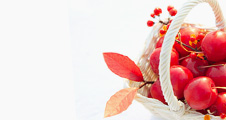
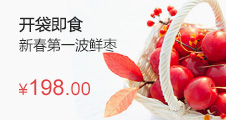
Modify index sideRecommend DOM.

Changed region(s): [[0.0619, 0.3, 0.5265, 0.45], [0.0619, 0.125, 0.3717, 0.275], [0.0619, 0.65, 0.4027, 0.8]]

diff --git a/index.html b/index.html
@@ -2082,29 +2082,17 @@
                     <ul>
                         <li>
                             <a class="show" href="">
-                                <dl class="desc">
-                                    <dt>美白去换补水滋养</dt>
-                                    <dd>激活脸部水分子</dd>
-                                </dl>
-                                <img class="thumb" src="assets/img/1.png" alt="" width="100" height="100"/>
+                                <img src="assets/images/sideRecommend01.jpg" alt="" width="214" height="100"/>
                             </a>
                         </li>
                         <li>
                             <a class="show" href="">
-                                <dl class="desc">
-                                    <dt>美白去换补水滋养</dt>
-                                    <dd>激活脸部水分子</dd>
-                                </dl>
-                                <img class="thumb" src="assets/img/2.png" alt="" width="100" height="100"/>
+                                <img src="assets/images/sideRecommend02.jpg" alt="" width="214" height="100"/>
                             </a>
                         </li>
                         <li>
                             <a class="show" href="">
-                                <dl class="desc">
-                                    <dt>美白去换补水滋养</dt>
-                                    <dd>激活脸部水分子</dd>
-                                </dl>
-                                <img class="thumb" src="assets/img/3.png" alt="" width="100" height="100"/>
+                                <img src="assets/images/sideRecommend03.jpg" alt="" width="214" height="100"/>
                             </a>
                         </li>
                     </ul>

diff --git a/assets/stylesheets/index.css b/assets/stylesheets/index.css
@@ -1279,36 +1279,11 @@ body {
     border-bottom: none;
 }
 
-.sideRecommend .desc {
-    float: left;
-    vertical-align: middle;
-    margin: 10px 0 0 0;
-    padding: 0;
-}
 
-.sideRecommend .desc dt {
-    width: 65px;
-    line-height: 20px;
-    padding: 0;
-    margin: 0;
-    font-size: 16px;
-    color: #202020;
-}
-
-.sideRecommend .desc dt:hover {
-    color: #e14041;
-}
-.sideRecommend .desc dd {
-    padding: 0;
-    margin: 10px 0 0 0;
-    font-size: 14px;
-    color: #aaa;
-}
-
-.sideRecommend .thumb {
-    float: right;
-}
-.sideRecommend .thumb img {
+.sideRecommend a img {
+    display: block;
+    width: 214px;
+    height: 100px;
     -webkit-transition: all .25s;
     -moz-transition: all .25s;
     -ms-transition: all .25s;
@@ -1316,7 +1291,7 @@ body {
     transition: all .25s;
 }
 
-.sideRecommend .thumb:hover {
+.sideRecommend a img:hover {
     opacity: .8;
 }
 
